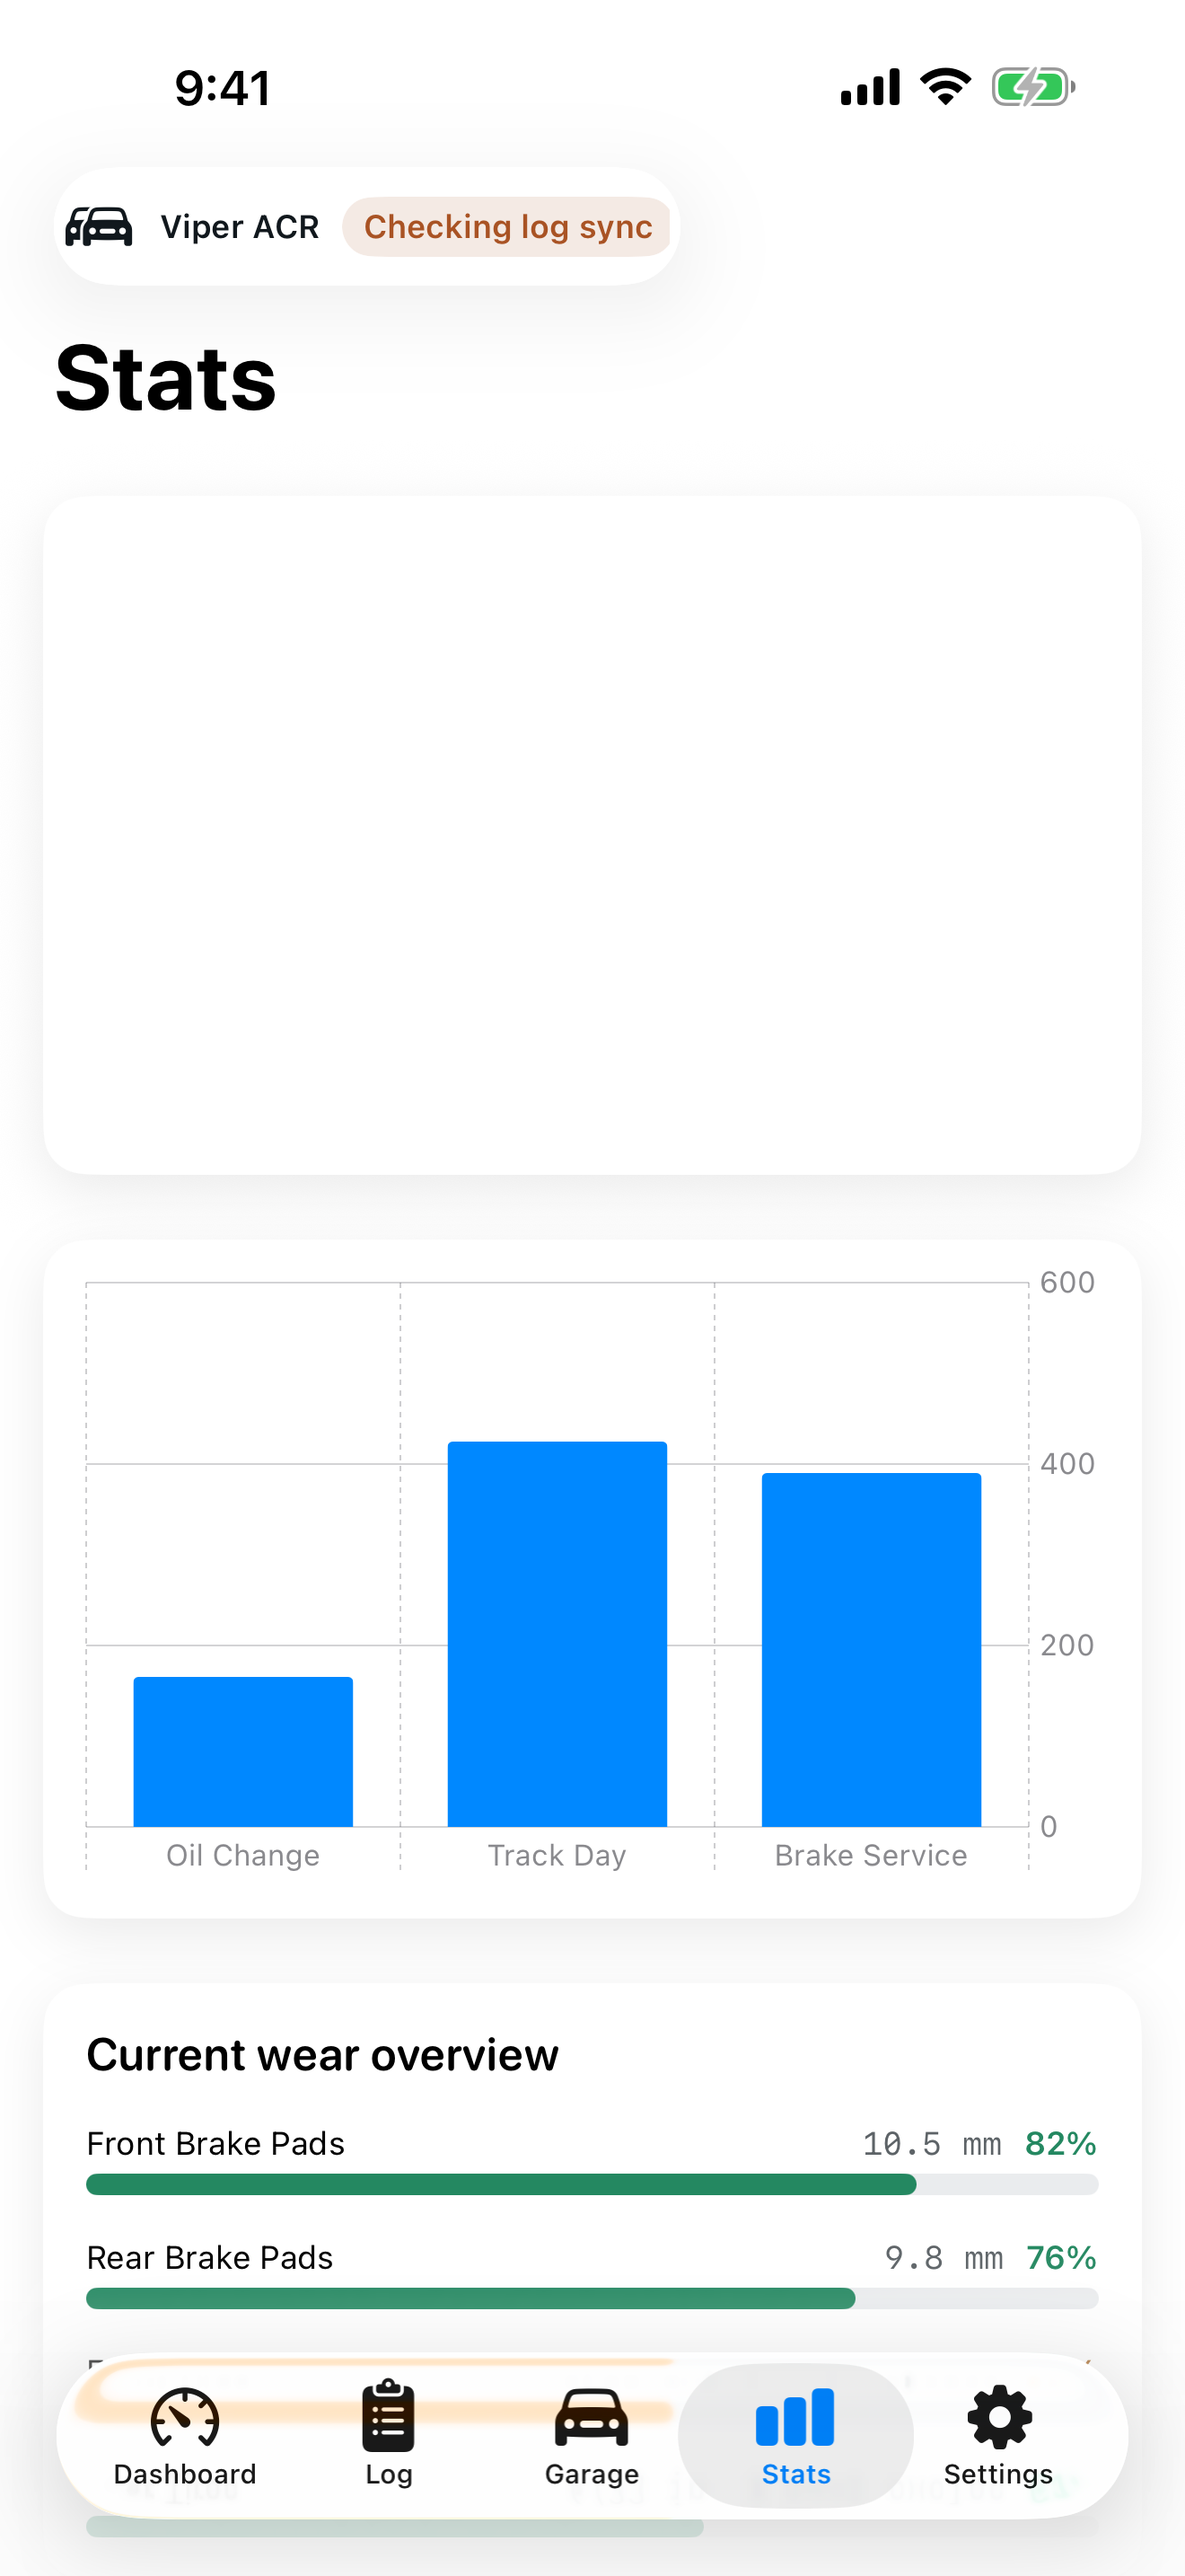
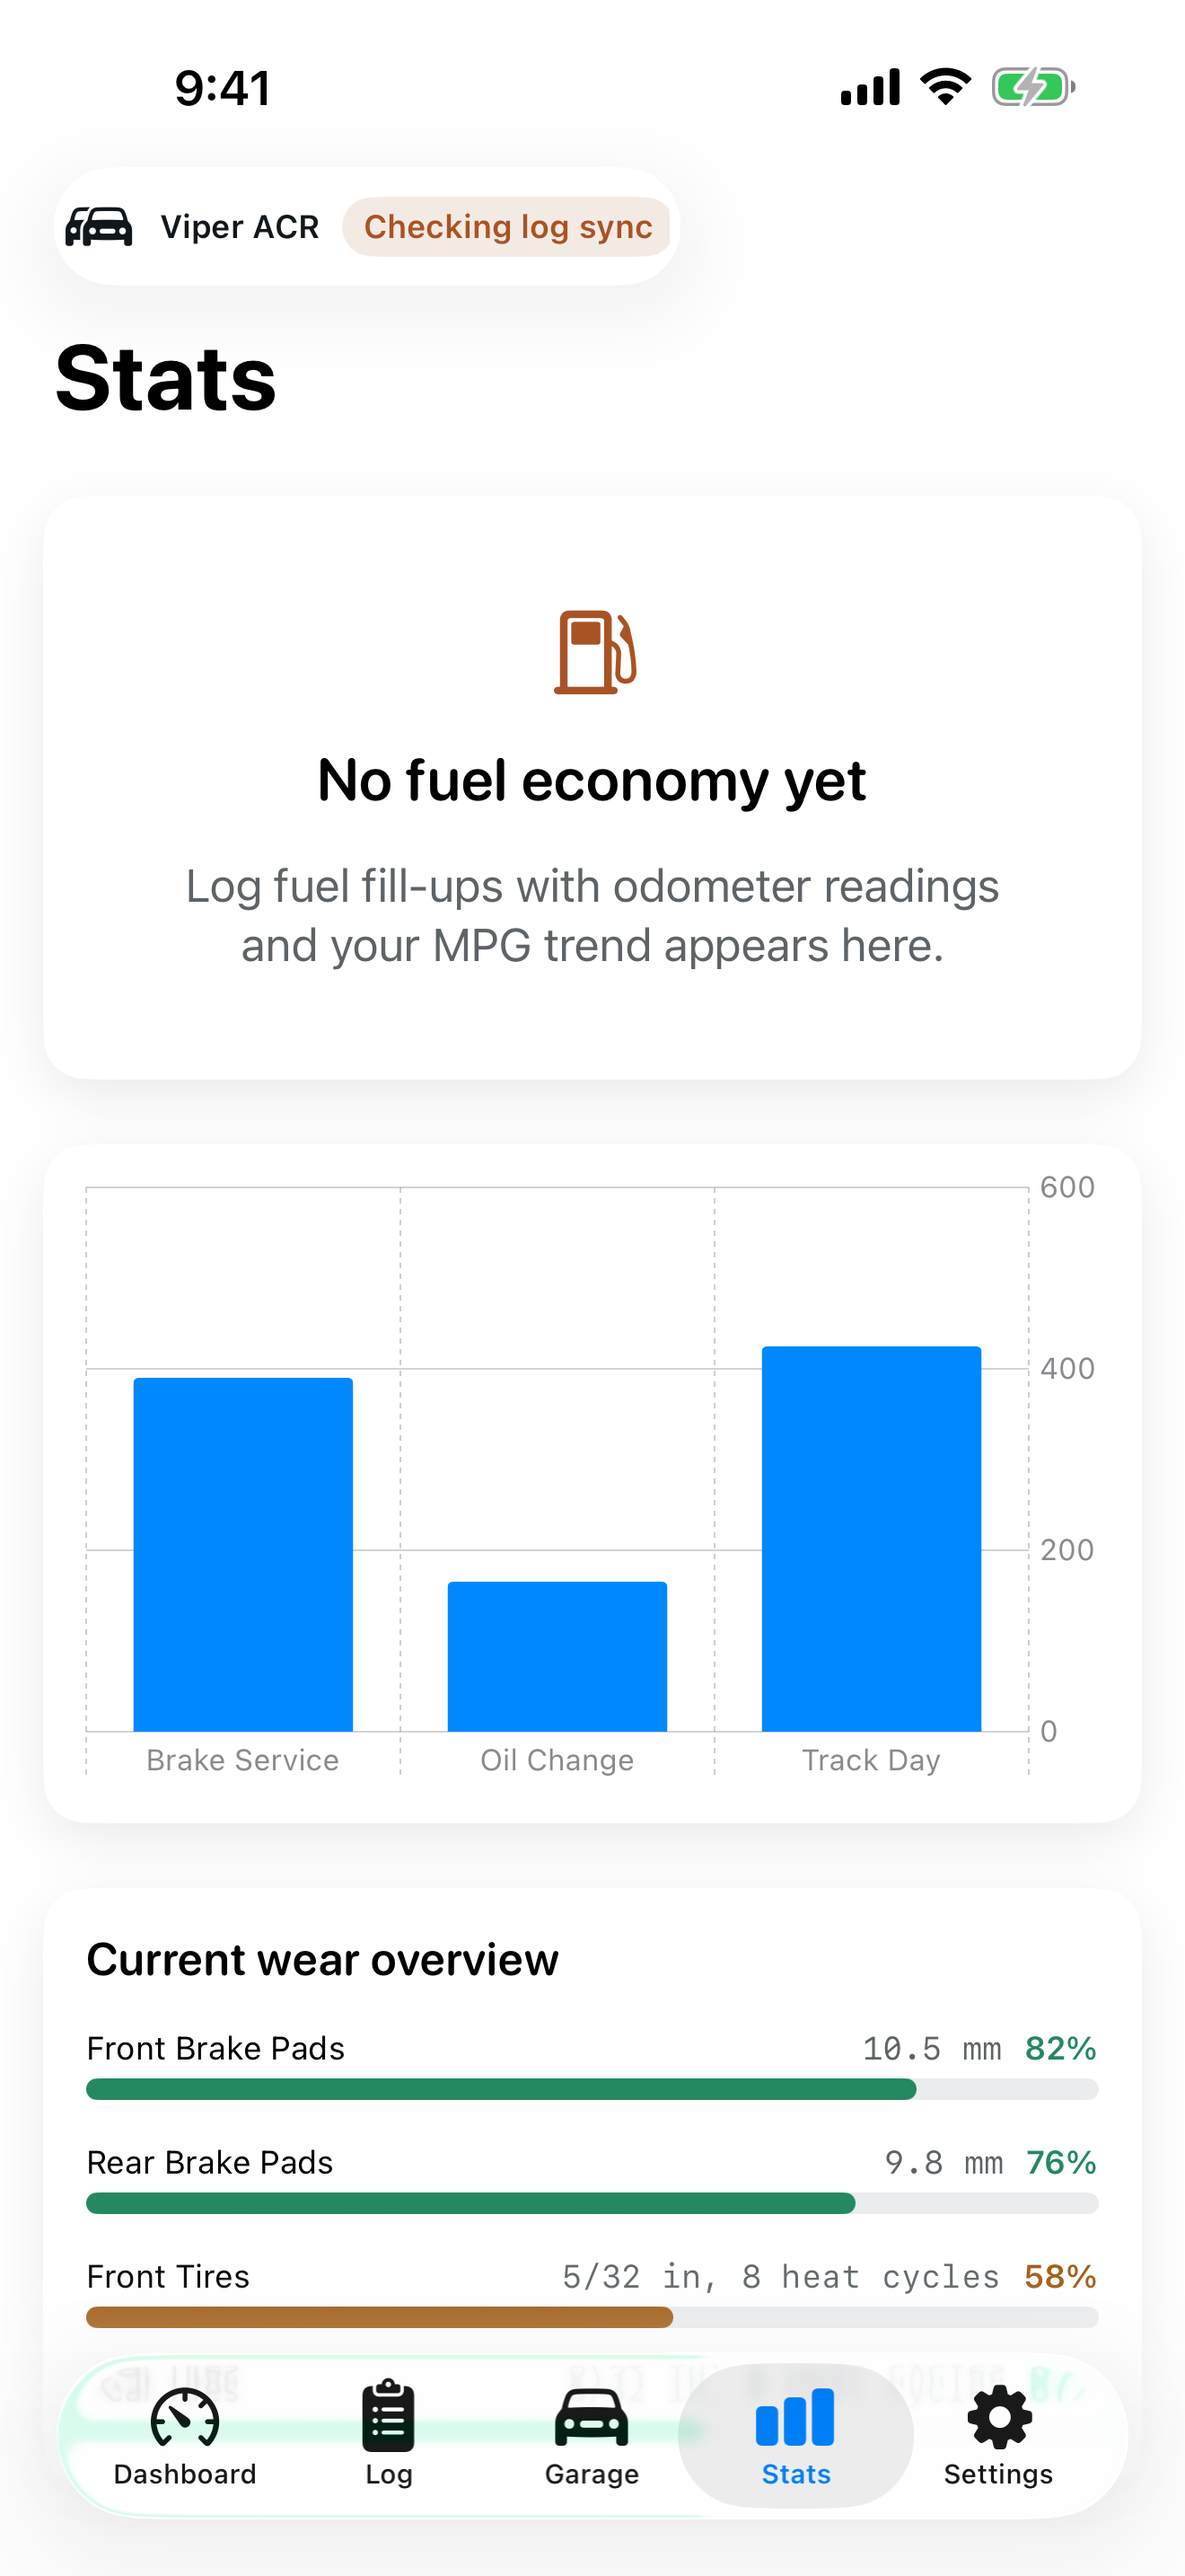
fix(stats): charts explain themselves when empty instead of drawing blank cards
All three Stats charts rendered a blank card with no data. A SwiftUI `Chart`
with no marks draws a 220pt rectangle of white space — no axes, no message —
and WearHistoryChart drew its heading floating over nothing. Both read as a
failed load rather than "nothing here yet".

Found while capturing App Store screenshots: the Stats capture contained a large
empty white card, which is why only 2 of 5 screenshots were good enough to
upload. It is a real UX defect, not a screenshot artifact — any user without
fuel entries sees it.

Each chart now falls back to EmptyStateView, matching the pattern the Dashboard
already used for wear and reminders:

  MPGTrendChart       "No fuel economy yet"
  CostBreakdownChart  "No costs recorded yet"
  WearHistoryChart    "No wear data yet"     (copy matches the Dashboard's)

Two further fixes in the cost derivation, both previously invisible:

- Categories whose entries all have nil cost summed to zero and plotted as a
  ZERO-HEIGHT BAR — indistinguishable from an empty chart while still widening
  the axis. Now dropped.
- Grouping came straight from a Dictionary, whose iteration order is not stable,
  so identical data could reorder bars between renders. Now sorted; a test
  asserts determinism across 20 evaluations.

The data derivations are extracted as static functions so the empty/non-empty
decision is unit testable without rendering a Chart.

Screenshots in docs/release/ re-captured with the fix — the Stats screen is now
[…]

diff --git a/Tests/UnitTests/Features/StatsChartDataTests.swift b/Tests/UnitTests/Features/StatsChartDataTests.swift
@@ -1,0 +1,103 @@
+import Foundation
+import Testing
+@testable import Garage
+
+/// Covers the data derivations behind the Stats charts, and specifically the empty case.
+///
+/// All three charts previously rendered a blank card when they had nothing to show: a `Chart` with
+/// no marks draws a 220pt rectangle of white space with no axes and no message, and
+/// `WearHistoryChart` drew a heading floating over nothing. That reads as a failed load rather than
+/// "nothing here yet", and it is what put a blank card in the App Store screenshot.
+@MainActor
+struct StatsChartDataTests {
+    private func entry(
+        type: EntryType,
+        cost: Double? = nil,
+        mpg: Double? = nil,
+        date: Date = Date(timeIntervalSince1970: 1_000_000)
+    ) -> FirestoreEntry {
+        var details: [String: AnyCodable] = [:]
+        if let mpg { details["calculatedMPG"] = AnyCodable(mpg) }
+        return FirestoreEntry(
+            id: UUID().uuidString, vehicleId: "v", userId: "u", entryType: type,
+            entryDate: date, odometerReading: 100, cost: cost, isDiy: nil, shopName: nil,
+            notes: nil, attachmentPaths: [], isResolved: nil, details: details,
+            createdAt: nil, updatedAt: nil
+        )
+    }
+
+    // MARK: - MPG
+
+    @Test func mpgPointsAreEmpty_withNoEntries() {
+        #expect(MPGTrendChart.fuelPoints(from: []).isEmpty)
+    }
+
+    /// The case that produced the blank card: entries exist, but none are fuel with a computed MPG.
+    @Test func mpgPointsAreEmpty_whenNoFuelEntryCarriesMPG() {
+        let entries = [
+            entry(type: .maintenance, cost: 120),
+            entry(type: .fuel, cost: 60)          // fuel, but no calculatedMPG yet
+        ]
+        #expect(MPGTrendChart.fuelPoints(from: entries).isEmpty)
+    }
+
+    @Test func mpgPointsIncludeOnlyFuelEntriesWithAComputedValue() {
+        let entries = [
+            entry(type: .fuel, mpg: 24.5),
+            entry(type: .fuel),                   // no MPG — excluded
+            entry(type: .maintenance, mpg: 99)    // not fuel — excluded
+        ]
+        let points = MPGTrendChart.fuelPoints(from: entries)
+        #expect(points.count == 1)
+        #expect(points.first?.value == 24.5)
+    }
+
+    // MARK: - Cost
+
+    @Test func costGroupsAreEmpty_withNoEntries() {
+        #expect(CostBreakdownChart.costGroups(from: []).isEmpty)
+    }
+
+    /// A category whose entries all have nil cost sums to zero. Plotted, it is a zero-height bar —
+    /// visually identical to an empty chart while still widening the axis.
+    @Test func costGroupsDropZeroTotals_ratherThanPlottingInvisibleBars() {
+        let entries = [entry(type: .maintenance), entry(type: .fuel)]
+        #expect(CostBreakdownChart.costGroups(from: entries).isEmpty)
+    }
+
+    @Test func costGroupsSumPerCategory() {
+        let entries = [
+            entry(type: .maintenance, cost: 100),
+            entry(type: .maintenance, cost: 50),
+            entry(type: .fuel, cost: 60)
+        ]
+        let groups = Dictionary(uniqueKeysWithValues:
+            CostBreakdownChart.costGroups(from: entries).map { ($0.type, $0.value) })
+        #expect(groups[EntryType.maintenance.displayName] == 150)
+        #expect(groups[EntryType.fuel.displayName] == 60)
+    }
+
+    @Test func costGroupsMixZeroAndNonZero_keepingOnlyTheReal() {
+        let entries = [
+            entry(type: .maintenance, cost: 200),
+            entry(type: .fuel)                    // zero total — dropped
+        ]
+        let groups = CostBreakdownChart.costGroups(from: entries)
+        #expect(groups.count == 1)
+        #expect(groups.first?.type == EntryType.maintenance.displayName)
+    }
+
+    /// Dictionary iteration order is not stable, so the same data could otherwise reorder bars
+    /// between renders.
+    @Test func costGroupOrderIsDeterministic() {
+        let entries = [
+            entry(type: .fuel, cost: 60),
+            entry(type: .maintenance, cost: 100)
+        ]
+        let first = CostBreakdownChart.costGroups(from: entries).map(\.type)
+        for _ in 0..<20 {
+            #expect(CostBreakdownChart.costGroups(from: entries).map(\.type) == first)
+        }
+        #expect(first == first.sorted())
+    }
+}

diff --git a/Garage/Features/Stats/Views/CostBreakdownChart.swift b/Garage/Features/Stats/Views/CostBreakdownChart.swift
@@ -5,19 +5,34 @@ struct CostBreakdownChart: View {
     let entries: [FirestoreEntry]
 
     var body: some View {
-        Chart(costGroups, id: \.type) { item in
-            BarMark(x: .value("Type", item.type), y: .value("Cost", item.value))
-                .accessibilityLabel(item.type)
-                .accessibilityValue(item.value.currencyText)
+        // Same blank-card problem as MPGTrendChart: a Chart with no bars renders empty white space.
+        if groups.isEmpty {
+            EmptyStateView(
+                title: "No costs recorded yet",
+                message: "Add a cost to a service or fuel entry to see where the money goes.",
+                systemImage: "chart.bar"
+            )
+        } else {
+            Chart(groups, id: \.type) { item in
+                BarMark(x: .value("Type", item.type), y: .value("Cost", item.value))
+                    .accessibilityLabel(item.type)
+                    .accessibilityValue(item.value.currencyText)
+            }
+            .frame(height: 220)
+            .accessibilityLabel("Cost breakdown by category")
+            .garageCard()
         }
-        .frame(height: 220)
-        .accessibilityLabel("Cost breakdown by category")
-        .garageCard()
     }
 
-    private var costGroups: [(type: String, value: Double)] {
-        Dictionary(grouping: entries, by: { $0.entryType.displayName }).map { key, value in
-            (key, value.reduce(0) { $0 + ($1.cost ?? 0) })
-        }
+    private var groups: [(type: String, value: Double)] { Self.costGroups(from: entries) }
+
+    /// A category whose entries all have nil cost sums to zero and plots as a zero-height bar —
+    /// indistinguishable from an empty chart, and it widens the axis for no information. Dropped.
+    /// Sorted so the same data always renders in the same order.
+    static func costGroups(from entries: [FirestoreEntry]) -> [(type: String, value: Double)] {
+        Dictionary(grouping: entries, by: { $0.entryType.displayName })
+            .map { key, value in (type: key, value: value.reduce(0) { $0 + ($1.cost ?? 0) }) }
+            .filter { $0.value > 0 }
+            .sorted { $0.type < $1.type }
     }
 }

diff --git a/Garage/Features/Stats/Views/MPGTrendChart.swift b/Garage/Features/Stats/Views/MPGTrendChart.swift
@@ -5,17 +5,31 @@ struct MPGTrendChart: View {
     let entries: [FirestoreEntry]
 
     var body: some View {
-        Chart(fuelPoints, id: \.date) { point in
-            LineMark(x: .value("Date", point.date), y: .value("MPG", point.value))
-                .accessibilityLabel(Formatters.shortDate.string(from: point.date))
-                .accessibilityValue(point.value.mpgText)
+        // A Chart with no marks draws a blank 220pt card: no axes, no message, just white space
+        // that reads as broken or still-loading. Every other section of the app explains itself
+        // when empty (Dashboard wear, reminders), so this does too.
+        if points.isEmpty {
+            EmptyStateView(
+                title: "No fuel economy yet",
+                message: "Log fuel fill-ups with odometer readings and your MPG trend appears here.",
+                systemImage: "fuelpump"
+            )
+        } else {
+            Chart(points, id: \.date) { point in
+                LineMark(x: .value("Date", point.date), y: .value("MPG", point.value))
+                    .accessibilityLabel(Formatters.shortDate.string(from: point.date))
+                    .accessibilityValue(point.value.mpgText)
+            }
+            .frame(height: 220)
+            .accessibilityLabel("Fuel economy trend")
+            .garageCard()
         }
-        .frame(height: 220)
-        .accessibilityLabel("Fuel economy trend")
-        .garageCard()
     }
 
-    private var fuelPoints: [(date: Date, value: Double)] {
+    private var points: [(date: Date, value: Double)] { Self.fuelPoints(from: entries) }
+
+    /// Extracted so the empty/non-empty decision is unit testable without rendering a Chart.
+    static func fuelPoints(from entries: [FirestoreEntry]) -> [(date: Date, value: Double)] {
         entries.compactMap { entry in
             guard entry.entryType == .fuel,
                   let mpg = entry.details["calculatedMPG"]?.value.doubleValue else { return nil }

diff --git a/Garage/Features/Stats/Views/WearHistoryChart.swift b/Garage/Features/Stats/Views/WearHistoryChart.swift
@@ -4,13 +4,27 @@ struct WearHistoryChart: View {
     let wearItems: [WearItem]
 
     var body: some View {
-        VStack(alignment: .leading, spacing: Theme.Spacing.md) {
-            Text("Current wear overview")
-                .font(Theme.Typography.headline)
-            ForEach(wearItems) { item in
-                WearItemBar(label: item.type.label, percentage: item.percentage, rawValue: item.rawValue)
+        // With no items this rendered a card containing nothing but the heading — a title floating
+        // over blank space, which reads as a failed load rather than "nothing here yet".
+        if wearItems.isEmpty {
+            EmptyStateView(
+                title: "No wear data yet",
+                message: "Brake, tire, and clutch health appears after the first relevant service entry.",
+                systemImage: "gauge.medium"
+            )
+        } else {
+            VStack(alignment: .leading, spacing: Theme.Spacing.md) {
+                Text("Current wear overview")
+                    .font(Theme.Typography.headline)
+                ForEach(wearItems) { item in
+                    WearItemBar(
+                        label: item.type.label,
+                        percentage: item.percentage,
+                        rawValue: item.rawValue
+                    )
+                }
             }
+            .garageCard()
         }
-        .garageCard()
     }
 }
